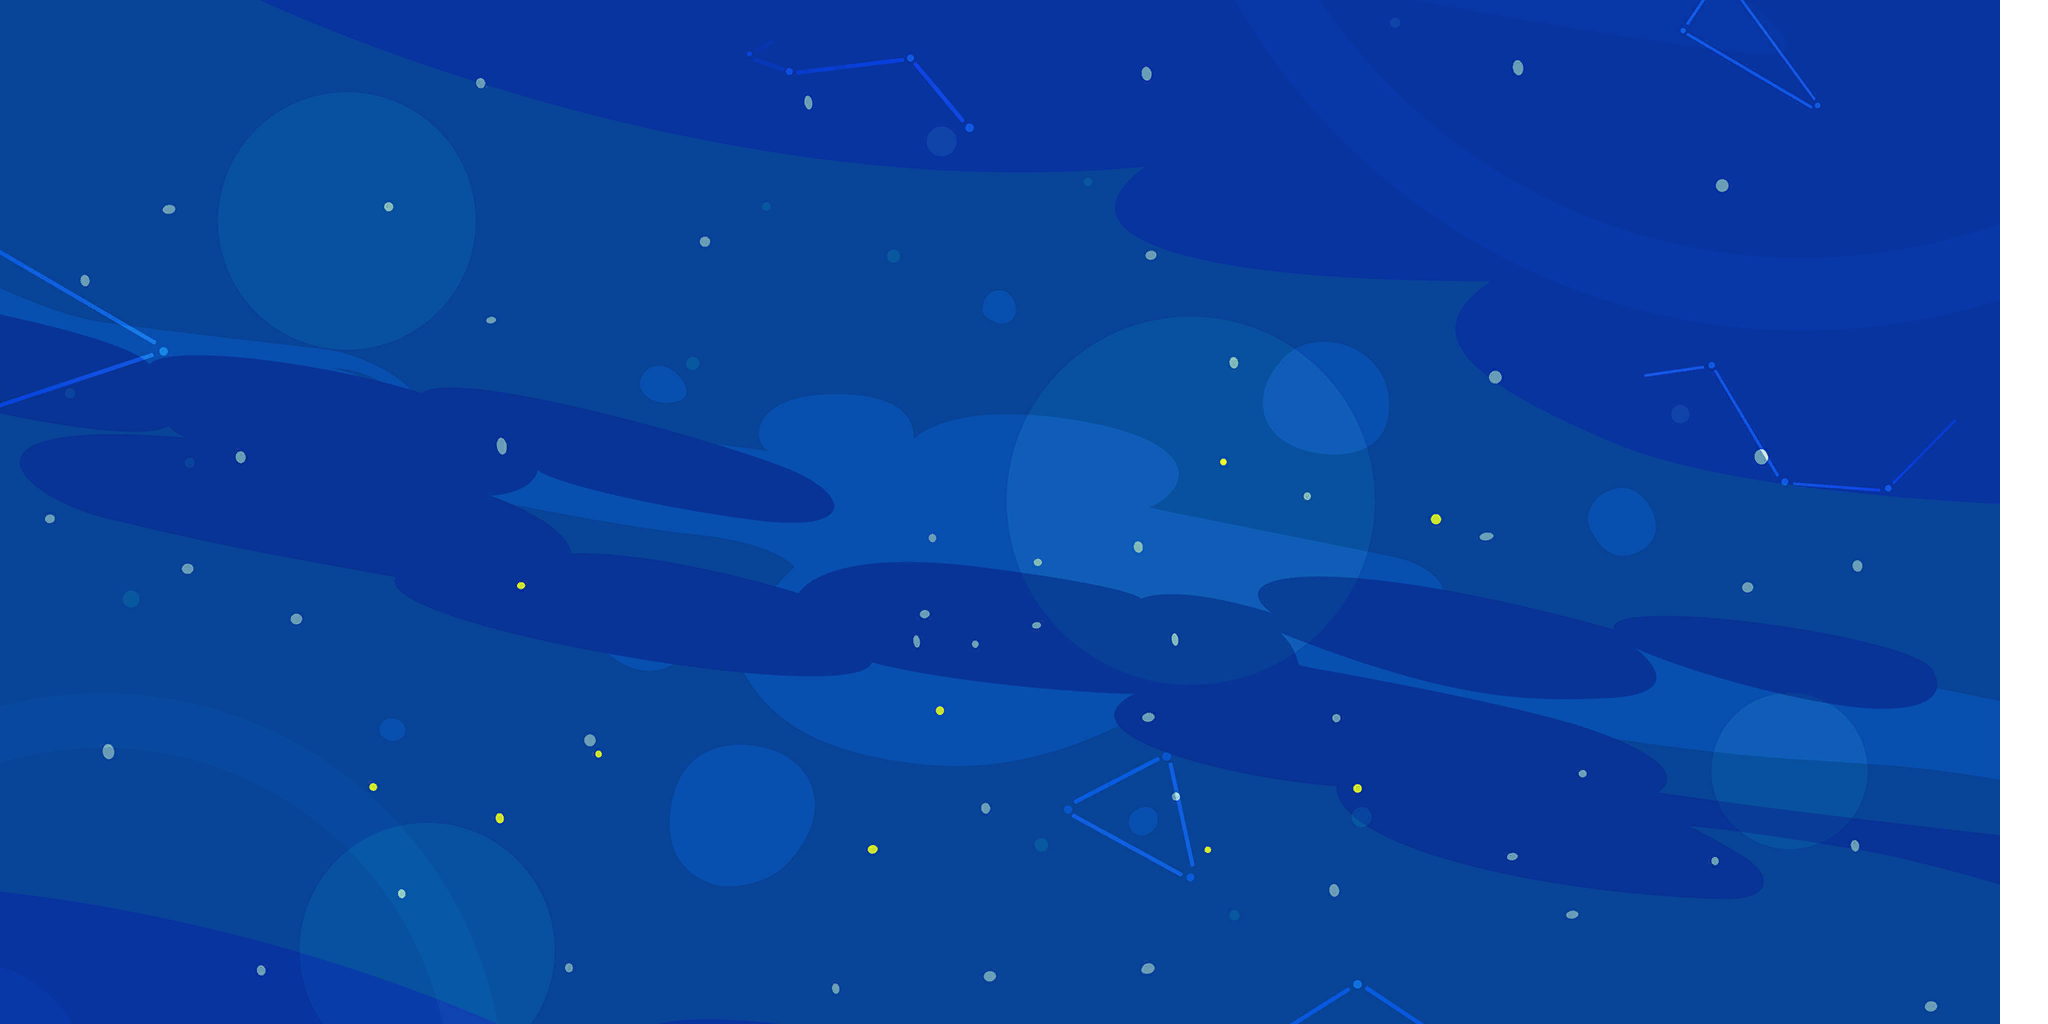
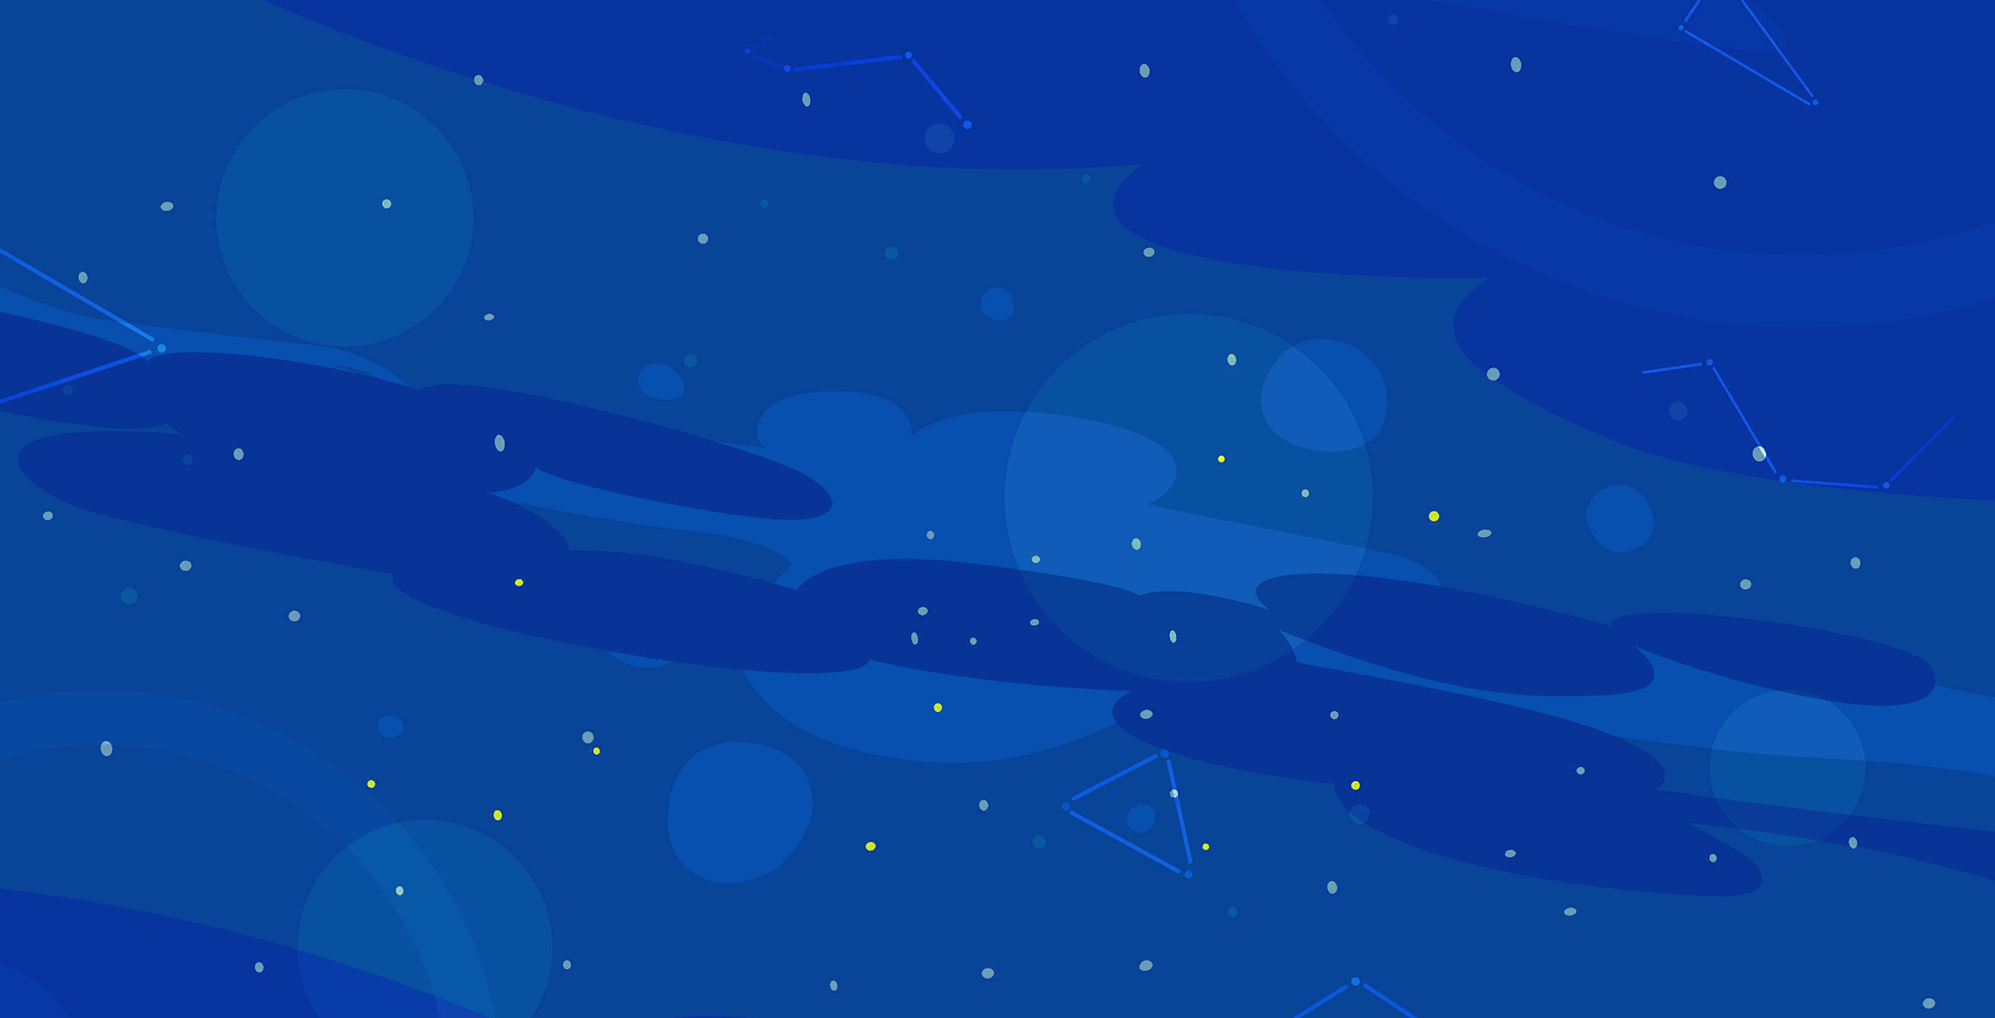
Fix background image white border

diff --git a/src/styles/index.scss b/src/styles/index.scss
@@ -12,10 +12,15 @@
 html,
 body {
   height: 100%;
+}
+
+body {
   font-family: Nunito, system-ui, -apple-system, BlinkMacSystemFont, "Segoe UI",
     Roboto, Oxygen, Ubuntu, Cantarell, "Open Sans", "Helvetica Neue", sans-serif;
   background-image: url("/public/assets/blue-space.png");
   background-position: center;
+  background-repeat: no-repeat;
+  background-size: cover;
 }
 
 button {
